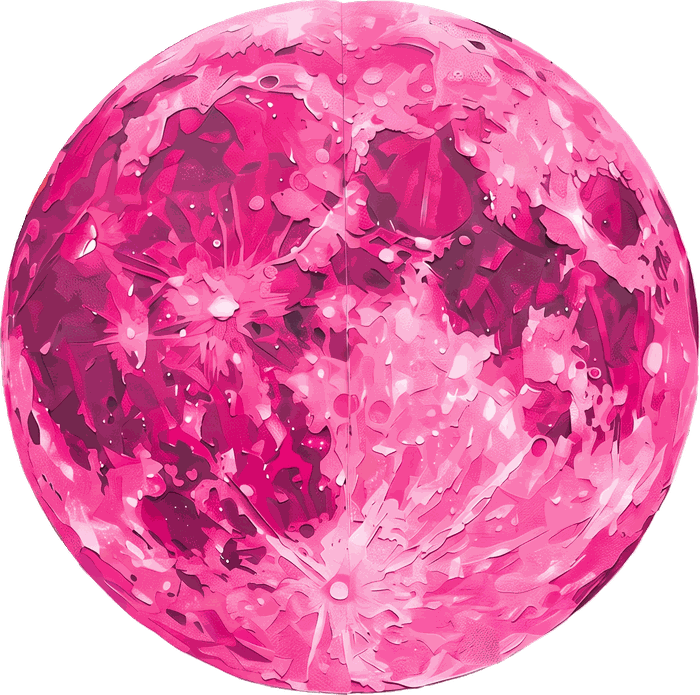
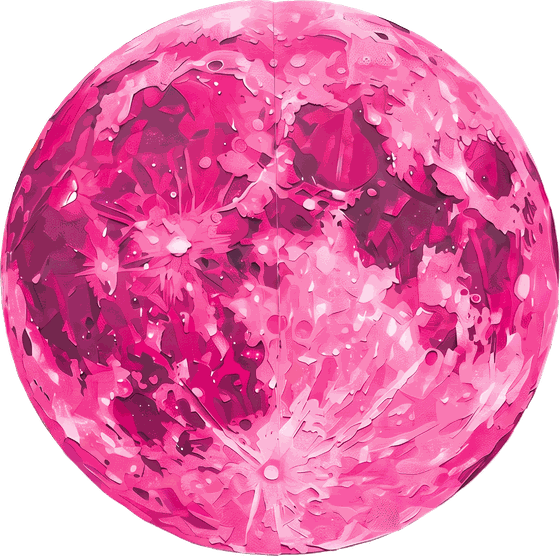
Add files via upload

diff --git a/index.html b/index.html
@@ -231,35 +231,39 @@ section{position:relative;padding:var(--gap) var(--pad)}
 /* ═══════════════ HERO ═══════════════ */
 #home{min-height:auto;padding-top:clamp(118px,15vh,150px);padding-bottom:clamp(30px,5vh,52px);overflow:hidden}
 
-/* ═══════════════ COLLAGE DEL HERO ═══════════════
-   El bloque .topstack agrupa el hero y la tarjeta del día. El
-   collage se dibuja ENCIMA de los dos, así la tortuga y la
-   serpiente cruzan por delante de la tarjeta.
-   Se mide por ANCHO (--w) porque el alto del bloque cambia según
-   el contenido; medirlo por alto lo hacía crecer demasiado.
-     --w  ancho (porcentaje del ancho de pantalla)
-     --x  cuánto se sale por su lado
-     --b  cuánto se hunde por abajo                                */
-.topstack{position:relative}
-.collage{position:absolute;inset:0;z-index:5;pointer-events:none;overflow:hidden}
-.col{position:absolute;bottom:var(--b);width:var(--w);height:auto;max-width:none;opacity:0;
-  filter:drop-shadow(0 16px 26px rgba(82,16,47,.24))}
-.col.L{left:var(--x);  --w:clamp(320px,32vw,780px); --x:-3%; --b:-2%;
-       animation:slideL 1.1s cubic-bezier(.16,1,.3,1) forwards}
-.col.R{right:var(--x); --w:clamp(320px,32vw,790px); --x:-3%; --b:-2%;
-       animation:slideR 1.1s cubic-bezier(.16,1,.3,1) forwards}
-.collage .col{animation-play-state:paused}
-.collage.in .col{animation-play-state:running}
-.collage.in .col.R{animation-delay:.18s}
-@keyframes slideL{from{opacity:0;transform:translateX(-120%) rotate(-7deg) scale(.92)}
-                  to  {opacity:1;transform:none}}
-@keyframes slideR{from{opacity:0;transform:translateX(120%) rotate(7deg) scale(.92)}
-                  to  {opacity:1;transform:none}}
-/* el texto del hero queda por encima del collage;
-   la tarjeta del día queda por DEBAJO, para que los recortes
-   pasen por delante de sus bordes */
-.hero{z-index:6}
-.daycard{z-index:1}
+/* ═══════════════ HERO: DOS SOLES CON OJO ═══════════════
+   El sol gira; el ojo va encima, quieto, tapando el círculo
+   central. --sun controla el tamaño de los dos.                 */
+.heroline{display:flex;align-items:center;justify-content:center;gap:clamp(10px,3vw,54px)}
+.herotext{flex:0 1 auto;min-width:0}
+.eyesun{position:relative;flex:0 0 auto;width:var(--sun);--sun:clamp(120px,17vw,300px)}
+.eyesun svg{width:100%;height:auto;display:block}
+.eyesun .eye{position:absolute;top:50%;left:50%;width:41%;height:auto;
+  transform:translate(-50%,-50%);pointer-events:none;
+  filter:drop-shadow(0 3px 8px rgba(82,16,47,.3))}
+.sunspin{animation:spin 90s linear infinite;transform-origin:110px 110px;transform-box:view-box}
+#sunR .sunspin{animation-direction:reverse}
+@keyframes spin{to{transform:rotate(360deg)}}
+@media(max-width:900px){
+  .heroline{flex-direction:column;gap:14px}
+  #sunR{display:none}
+  .eyesun{--sun:clamp(120px,30vw,190px)}
+}
+
+/* ═══════════════ RECORTES DE "QUIÉN TE LEE" ═══════════════
+   Tres piezas sueltas alrededor del texto. Aparecen al entrar
+   en pantalla. --w controla el tamaño de cada una.             */
+#about{overflow:hidden}
+.aboutart{position:absolute;inset:0;z-index:0;pointer-events:none;overflow:hidden}
+.aboutart img{position:absolute;width:var(--w);height:auto;opacity:0;
+  filter:drop-shadow(0 12px 20px rgba(82,16,47,.2));
+  transition:opacity .9s cubic-bezier(.2,.7,.3,1), transform .9s cubic-bezier(.2,.7,.3,1)}
+.a-tiger {--w:clamp(150px,17vw,340px); left:-5%;  bottom:4%;  transform:translateX(-30px) scale(.94)}
+.a-moon  {--w:clamp(110px,13vw,250px); right:2%;  top:-6%;    transform:translateY(-26px) scale(.94)}
+.a-shroom{--w:clamp(160px,19vw,380px); right:-4%; bottom:-8%; transform:translateX(30px) scale(.94)}
+.aboutart.in img{opacity:1;transform:none}
+@media(max-width:1100px){ .aboutart{display:none} }
+@media(prefers-reduced-motion:reduce){ .aboutart img{transition:none} }
 
 /* el collage necesita alto y márgenes libres; el texto se estrecha
    para dejarle sitio en pantallas anchas */
@@ -268,24 +272,19 @@ section{position:relative;padding:var(--gap) var(--pad)}
      al centro y la tarjeta del día por debajo del pliegue */
   #home{min-height:100svh;display:flex;align-items:center;
         padding-top:clamp(96px,11vh,124px);padding-bottom:clamp(40px,6vh,80px)}
-  .hero{max-width:min(720px,36vw)}
-  .daycard{max-width:min(760px,42vw)}
-  .hero-sun{width:clamp(130px,15vw,215px);margin:14px auto 20px}
 }
 @media(max-width:1249px){ .collage{display:none} }
 @media(prefers-reduced-motion:reduce){ .collage.in .col{opacity:1;animation:none} }
-.hero{max-width:880px;margin:0 auto;text-align:center;position:relative;z-index:2;width:100%}
+.hero{max-width:1240px;margin:0 auto;text-align:center;position:relative;z-index:2;width:100%}
 .wordmark{margin:0 auto 18px}
-.wordmark img{width:min(720px,94%);height:auto;margin:0 auto;display:block}
+.wordmark img{width:min(620px,100%);height:auto;margin:0 auto;display:block}
 .tagline{font-family:var(--display);font-style:italic;font-weight:400;font-size:clamp(19px,2.2vw,30px);
   line-height:1.14;margin-bottom:8px;font-variation-settings:"SOFT" 60,"WONK" 1}
 .disciplines{font-family:var(--label);font-size:clamp(12.5px,1.1vw,15px);letter-spacing:.24em;
   text-transform:uppercase;color:var(--rasp);margin-bottom:0}
-.hero-sun{width:clamp(150px,19vw,230px);margin:18px auto 22px}
-.hero-sun svg{width:100%;height:auto;display:block}
 .sunspin{animation:spin 90s linear infinite;transform-origin:110px 110px;transform-box:view-box}
 @keyframes spin{to{transform:rotate(360deg)}}
-.btns{display:flex;gap:12px;flex-wrap:wrap;align-items:center;justify-content:center}
+.btns{display:flex;gap:12px;flex-wrap:wrap;align-items:center;justify-content:center;margin-top:clamp(22px,3.4vh,44px)}
 .btn{font-family:var(--retro);font-size:14.5px;letter-spacing:.08em;text-transform:uppercase;text-decoration:none;
   padding:14px 30px;border-radius:999px;border:1.5px solid var(--wine);display:inline-block;
   transition:transform .22s,box-shadow .22s,background .22s,color .22s}
@@ -296,7 +295,7 @@ section{position:relative;padding:var(--gap) var(--pad)}
 
 /* ═══════════════ MENSAJE DEL DÍA ═══════════════ */
 #daily{padding-top:clamp(24px,3.4vh,40px);padding-bottom:clamp(56px,7vh,86px);background:transparent}
-.daycard{position:relative;max-width:760px;margin:0 auto;background:var(--cream);border:2px solid var(--wine);
+.daycard{max-width:760px;margin:0 auto;background:var(--cream);border:2px solid var(--wine);
   border-radius:24px;padding:clamp(22px,3vw,36px);text-align:center;box-shadow:8px 9px 0 var(--wine)}
 .daycard .dsun{width:40px;height:40px;margin:0 auto 10px;fill:var(--rasp)}
 .daycard .when{font-family:var(--retro);font-size:12.5px;letter-spacing:.14em;text-transform:uppercase;
@@ -361,20 +360,12 @@ section{position:relative;padding:var(--gap) var(--pad)}
 
 /* ═══════════════ SOBRE MÍ ═══════════════ */
 .about-grid{display:grid;grid-template-columns:minmax(0,.8fr) minmax(0,1.2fr);gap:clamp(26px,4vw,58px);align-items:start}
-.arch{position:relative;margin-bottom:26px;padding:14px 14px 44px;background:var(--cream);border:1.5px solid rgba(82,16,47,.2);
-  border-radius:220px 220px 12px 12px;transform:rotate(-1.8deg);box-shadow:8px 10px 0 rgba(82,16,47,.18)}
+.arch{position:relative;margin-bottom:26px;padding:14px;background:var(--cream);border:1.5px solid rgba(82,16,47,.2);
+  border-radius:220px 220px 12px 12px;transform:rotate(-1.5deg);box-shadow:8px 10px 0 rgba(82,16,47,.18)}
 .arch .frame{aspect-ratio:3/4;border-radius:206px 206px 6px 6px;display:grid;place-items:center;overflow:hidden;
   background-image:url("moni.JPG"),var(--f-tiger);background-size:cover,150px 150px;
   background-position:center 42%;border:1px solid rgba(82,16,47,.14)}
-.arch .cap{position:absolute;left:0;right:0;bottom:11px;text-align:center;font-family:var(--scrawl);font-size:23px;color:var(--wine)}
 /* cinta adhesiva: cruza el borde, mitad dentro / mitad fuera */
-.tape{position:absolute;width:112px;height:29px;z-index:2;
-  background:linear-gradient(180deg,rgba(255,196,224,.52),rgba(255,164,205,.72),rgba(255,196,224,.52));
-  border-left:1px dashed rgba(255,255,255,.8);border-right:1px dashed rgba(255,255,255,.8);
-  box-shadow:0 2px 5px rgba(82,16,47,.18)}
-.tape.t1{top:64px;left:-34px;transform:rotate(-47deg)}
-.tape.t2{top:64px;right:-34px;transform:rotate(47deg)}
-.tape.t3{bottom:-13px;left:50%;margin-left:-56px;transform:rotate(2deg)}
 .about-grid p{margin-bottom:13px}
 .natal{display:grid;grid-template-columns:repeat(3,1fr);gap:11px;margin:22px 0}
 .natal div{background:var(--hot);border:1.5px solid var(--wine);border-radius:14px;padding:14px 12px;
@@ -552,13 +543,17 @@ footer::before{content:"";position:absolute;inset:0;z-index:0;pointer-events:non
 </header>
 
 <!-- ═══════════ HOME ═══════════ -->
-<div class="topstack">
 <section id="home">
   <div class="hero">
-    <h1 class="wordmark"><img src="wordmark.png" alt="Moni Brujita" width="1800" height="246"></h1>
-    <p class="tagline" data-en="Ancient wisdom for the modern woman.">Sabiduría antigua para la mujer moderna.</p>
-    <p class="disciplines" data-en="Ayurveda · Astrology · Holistic coaching">Ayurveda · Astrología · Coaching holístico</p>
-    <div class="hero-sun" id="heroSun" aria-hidden="true"></div>
+    <div class="heroline">
+      <div class="eyesun" id="sunL" aria-hidden="true"></div>
+      <div class="herotext">
+        <h1 class="wordmark"><img src="wordmark.png" alt="Moni Brujita" width="1800" height="246"></h1>
+        <p class="tagline" data-en="Ancient wisdom for the modern woman.">Sabiduría antigua para la mujer moderna.</p>
+        <p class="disciplines" data-en="Ayurveda · Astrology · Holistic coaching">Ayurveda · Astrología · Coaching holístico</p>
+      </div>
+      <div class="eyesun" id="sunR" aria-hidden="true"></div>
+    </div>
     <div class="btns">
       <a href="#book" class="btn btn-fill" data-en="Book a session">Reservar sesión</a>
       <a href="#services" class="btn btn-ghost" data-en="See services">Ver servicios</a>
@@ -576,19 +571,8 @@ footer::before{content:"";position:absolute;inset:0;z-index:0;pointer-events:non
   </div>
 </section>
 
-  <!-- ── COLLAGE ──
-       Vive FUERA del hero, encima del hero y de la tarjeta del día,
-       para que la tortuga y la serpiente pasen por delante de la
-       tarjeta igual que en el diseño.
-         --h  alto (porcentaje de todo el bloque)
-         --x  cuánto se sale por su lado
-         --b  cuánto se hunde por abajo                            -->
-  <div class="collage" aria-hidden="true">
-    <img class="col L" src="collage-left.png"  alt="" width="867" height="1172">
-    <img class="col R" src="collage-right.png" alt="" width="892" height="1158">
-  </div>
-  <div class="sunbar inside" data-sunbar data-ink="#C4506E" aria-hidden="true"></div>
-</div>
+
+<div class="sunbar" data-sunbar data-ink="#C4506E" aria-hidden="true"></div>
 
 <!-- ═══════════ RUEDA ═══════════ -->
 <section id="dial" class="band-print bg-tiger">
@@ -618,6 +602,12 @@ footer::before{content:"";position:absolute;inset:0;z-index:0;pointer-events:non
 
 <!-- ═══════════ SOBRE MÍ ═══════════ -->
 <section id="about" class="band-cream">
+  <!-- recortes sueltos alrededor del texto -->
+  <div class="aboutart" id="aboutArt" aria-hidden="true">
+    <img class="a-tiger"  src="tiger_collage.png" alt="" width="760" height="659">
+    <img class="a-moon"   src="pink_moon.png"     alt="" width="560" height="556">
+    <img class="a-shroom" src="pink_mushroom.png" alt="" width="700" height="525">
+  </div>
   <div class="wrap">
     <div class="head reveal">
       <span class="eyebrow" data-en="House I · identity">Casa I · identidad</span>
@@ -626,9 +616,7 @@ footer::before{content:"";position:absolute;inset:0;z-index:0;pointer-events:non
     <div class="about-grid">
       <div class="reveal">
         <div class="arch">
-          <span class="tape t1"></span><span class="tape t2"></span><span class="tape t3"></span>
           <div class="frame"></div>
-          <p class="cap" data-en="me, in my element">yo, en mi elemento</p>
         </div>
       </div>
       <div class="reveal">
@@ -1093,12 +1081,16 @@ function buildSunbar(el){
   el.innerHTML = "";
 }
 document.querySelectorAll("[data-sunbar]").forEach(buildSunbar);
-document.getElementById("heroSun").innerHTML =
+
+/* los dos soles del hero, con el ojo encima del círculo central */
+var SUN_SVG =
   '<svg viewBox="0 0 220 220"><g class="sunspin">'+
   '<path d="'+sunPath(110,110,100,44,16,2.1)+'" fill="#C4506E"/>'+
   '<path d="'+sunPath(110,110,62,30,12,3.4)+'" fill="#FFE7F0"/></g>'+
-  '<circle cx="110" cy="110" r="26" fill="#E0248C"/>'+
-  '<circle cx="110" cy="110" r="26" fill="none" stroke="#FFF6E9" stroke-width="2"/></svg>';
+  '<circle cx="110" cy="110" r="30" fill="#E0248C"/></svg>'+
+  '<img class="eye" src="eye.png" alt="" width="560" height="390">';
+document.getElementById("sunL").innerHTML = SUN_SVG;
+document.getElementById("sunR").innerHTML = SUN_SVG;
 document.getElementById("daySun").innerHTML='<path d="'+sunPath(22,22,21,9,12,1.9)+'"/>';
 
 /* ═════════ 3. CONSTRUIR ═════════ */
@@ -1471,14 +1463,11 @@ document.getElementById("changeSign").addEventListener("click",function(){
 
 /* ═════════ 9. SCROLL ═════════ */
 var bar=document.querySelector("#transit i"), hdr=document.getElementById("hdr"), tick=false;
-var collage=document.querySelector(".collage");
 function onScroll(){
   var max=document.documentElement.scrollHeight-innerHeight;
   bar.style.width=((max>0?Math.min(1,scrollY/max):0)*100)+"%";
   hdr.classList.toggle("stuck",scrollY>60);
   document.body.classList.toggle("scrolled",scrollY>60);
-  /* el collage se arma en cuanto la persona empieza a bajar */
-  if (collage && scrollY>30) collage.classList.add("in");
   tick=false;
 }
 addEventListener("scroll",function(){ if(!tick){tick=true;requestAnimationFrame(onScroll);} },{passive:true});
@@ -1489,6 +1478,17 @@ var io=new IntersectionObserver(function(es){
 document.querySelectorAll(".reveal").forEach(function(el,i){
   el.style.transitionDelay=((i%4)*65)+"ms"; io.observe(el);
 });
+
+/* los recortes de "quién te lee" entran escalonados */
+var aboutArt=document.getElementById("aboutArt");
+if (aboutArt){
+  aboutArt.querySelectorAll("img").forEach(function(im,i){
+    im.style.transitionDelay=(i*140)+"ms";
+  });
+  new IntersectionObserver(function(es,ob){
+    es.forEach(function(e){ if(e.isIntersecting){ aboutArt.classList.add("in"); ob.disconnect(); } });
+  },{threshold:.15}).observe(document.getElementById("about"));
+}
 
 /* ═════════ 10. MENÚ + NEWSLETTER ═════════ */
 var nav=document.getElementById("nav"), mb=document.getElementById("menuBtn");
